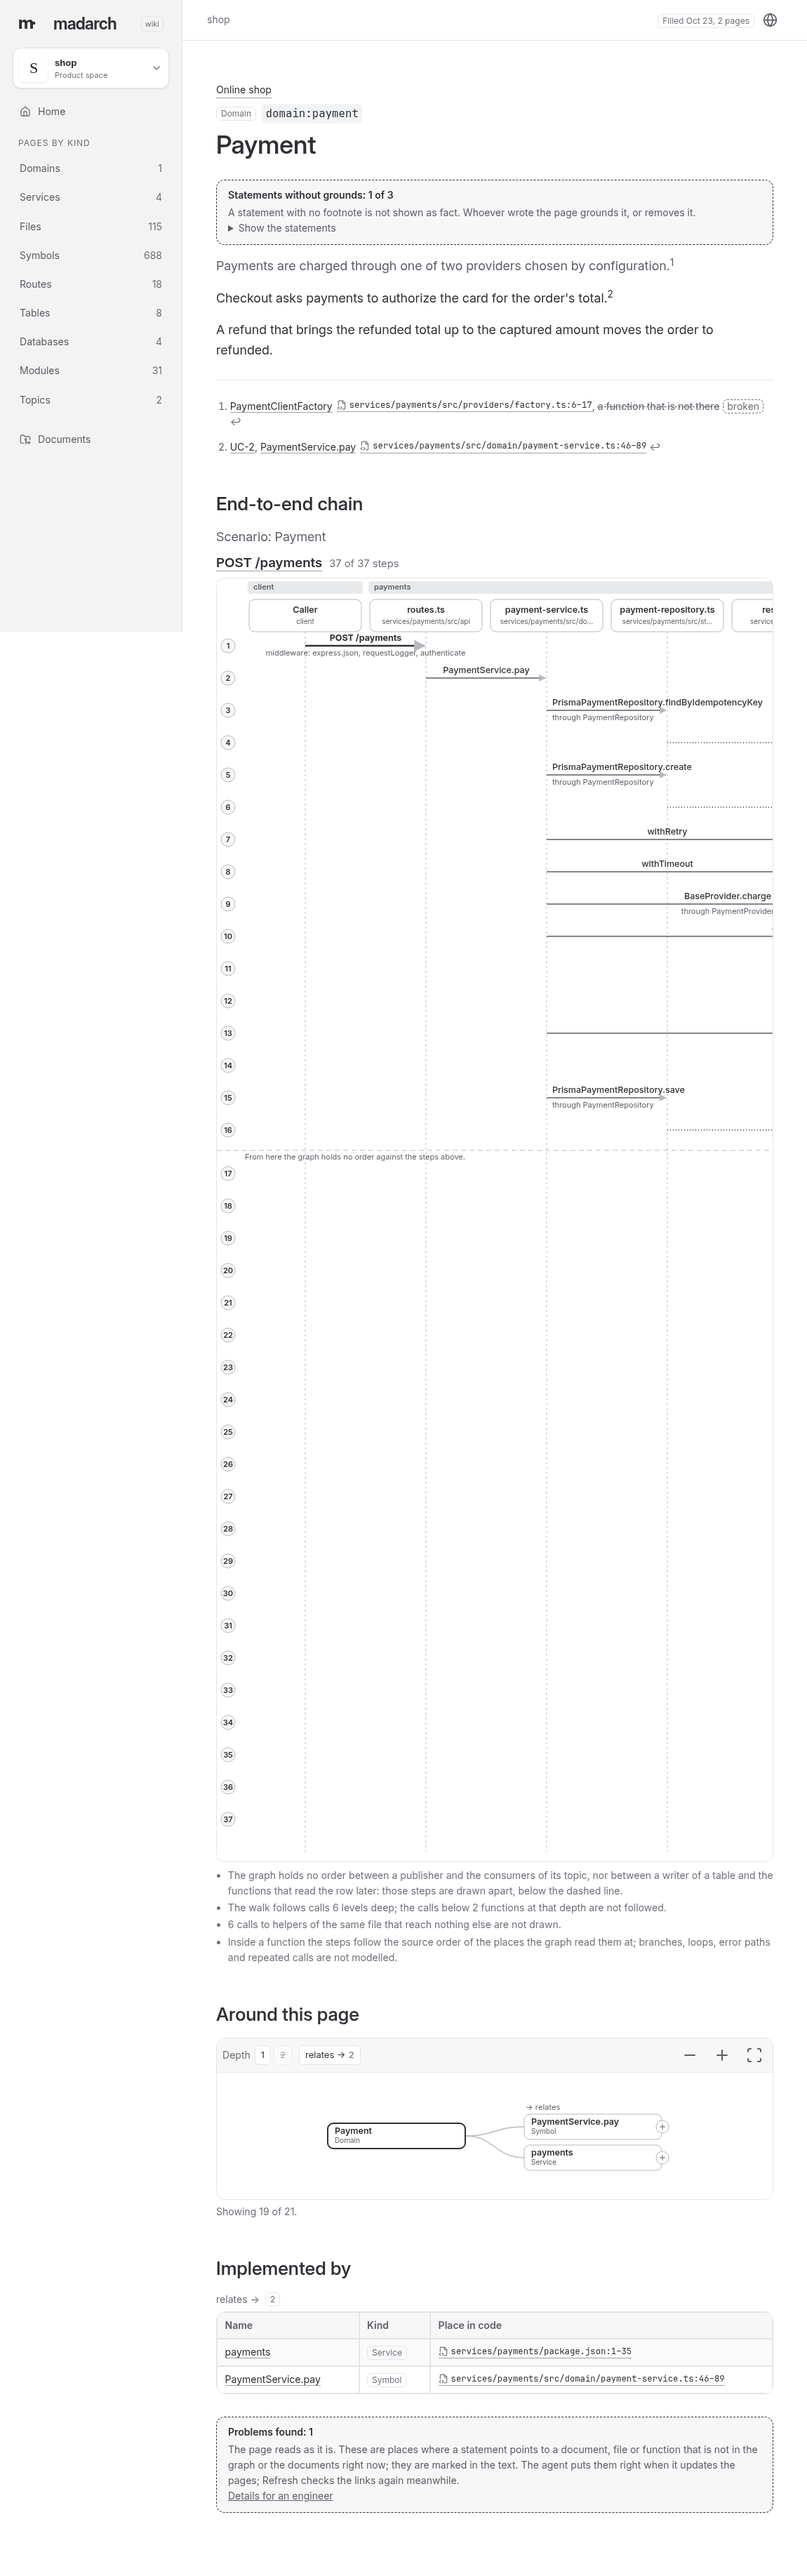
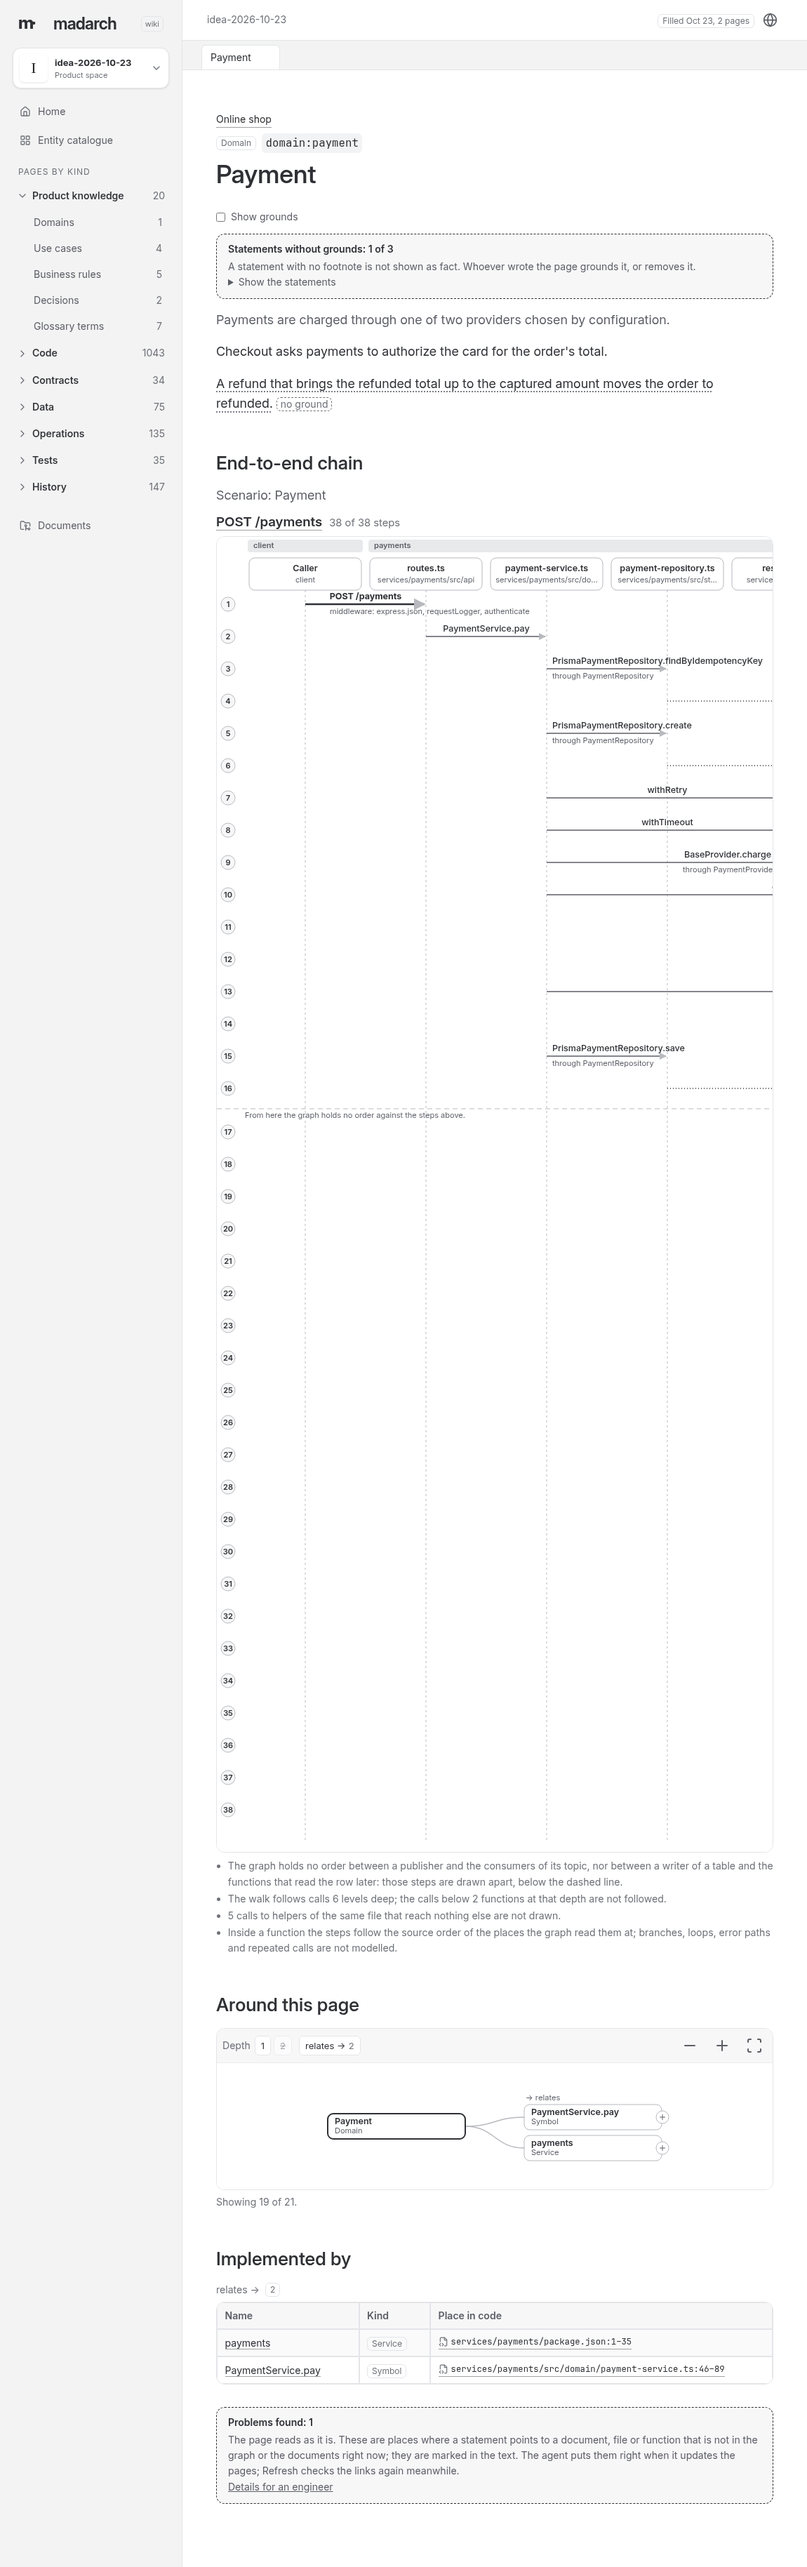
Record the diagrams' design and acceptance evidence
Task: madarch-m38l.9

diff --git a/scripts/diagram-shots.ts b/scripts/diagram-shots.ts
@@ -126,7 +126,12 @@ for (const view of views) {
       console.error(`${entry.name} ${view.tag}: ${entry.wait} never appeared: ${(error as Error).message}`);
     }
     await new Promise((rest) => setTimeout(rest, 800));
-    await page.screenshot({ path: join(out, `${entry.name}-${view.tag}.png`), fullPage: true });
+    // The viewport takes the page's whole height, so the pictures hold what a reader scrolls through and no diagram is
+    // measured again while the capture resizes the window.
+    const height = await page.evaluate(() => Math.max(document.documentElement.scrollHeight, ...[...document.querySelectorAll('main, [data-testid=entity-page]')].map((element) => element.scrollHeight)));
+    await page.setViewport({ width: view.width, height: Math.min(9000, Math.max(900, height)) });
+    await new Promise((rest) => setTimeout(rest, 800));
+    await page.screenshot({ path: join(out, `${entry.name}-${view.tag}.png`) });
     report[`${entry.name}-${view.tag}`] = await measure(page);
     await page.close();
   }

diff --git a/docs/changes/madarch-m38l.9/change.md b/docs/changes/madarch-m38l.9/change.md
@@ -38,10 +38,32 @@ Mockup: docs/prototypes/madarch-m38l.9/domain-payment-1150-light.png
 None.
 
 ## Design and decisions
-Filled with the acceptance evidence.
+Decision 0029 (blocks over the graph, templates arrange them). Choices inside it:
+- **Own SVG, no graph library.** The neighbourhood is a layered drawing whose layers are given (what comes in on the left, what goes out on the right), the system and module views are small layered graphs, the chain is a table of lanes and rows, the treemap a squarified partition. xyflow needs a layout engine beside it (elkjs, 1.4 MB of the 7.7 MB `dist` is already the mermaid ELK chunk) and Cytoscape is 435 kB (also already a mermaid chunk, loaded only for mermaid); neither gives a fixed in/out column layout without a custom layout, and both bring a worker or wasm question for the compiled binary. The layouts are 300 lines of pure functions (`wiki/app/src/knowledge/diagrams/layout.ts`) that the tests check for overlap. Cost: no automatic routing for large graphs; the neighbourhood caps its nodes (48, per-group 8) and says what it left out. The ER diagram stays on the existing Mermaid renderer (static reads best) and gains a link to each table.
+- **What a chain claims.** The graph holds no execution order, but it holds the place (line and byte) of every call, table access, remote call and publication inside the function that makes it. A chain therefore orders steps only by those places inside one function, goes depth first through calls, enters another service through the route or handler that serves the operation (`code.calls-remote` to `code.serves`), and draws what the graph links without an order (consumers of a topic, the readers of a table the chain wrote that go on to publish) under a dashed line that says so. Branches, loops and error paths are not modelled and the diagram says it. A call through an interface drops the interface's step and keeps the implementation's; several functions called at one site are marked as alternatives; same-file helpers that reach nothing are left out and counted.
+- **Where a chain starts.** A route page starts at its route; a function page walks the callers upward until a caller stands inside a route's lines; a Markdown page follows its `relates` to those. A function no route reaches starts at itself and says so.
+- **Derived neighbours.** A route's `handled-by` (what its registration calls at the route's lines) and a service's links (calls over HTTP/gRPC, databases, topics) are computed from spans and the system view's own reads; they appear in the neighbourhood with those relation names.
+- **A click opens the node's page in a new in-wiki tab** (`openInNewTab` of madarch-m38l.6) through `DiagramOpenProvider`/`onOpen`; shift and alt are left to the browser, ctrl and the middle button open a tab as in the wiki's other links. A phone shows the chain as a list of steps (the lanes would scroll sideways under a column of bare numbers); the other diagrams pan.
+- **Read cost.** `relationEdges` bounds its rows with a SQL LIMIT and counts the rest; every view that reads a whole relation says when it read part of it.
 
 ## Acceptance evidence
-Filled when the diagrams are accepted.
+On the SkyPilot pod (`madarch-sky-test --avx2`, 2026-10-23), on the generated training repository, fixtures only:
+- `test/knowledge-diagrams.test.ts` (13 tests, fills the training repository): POST /orders reaches handler `Create`, use case `Place`, domain `NewOrder`, `OrderRepository.Create` and the tables orders, order_items and outbox in the answer key's order (flow.orders.*), and the outbox's reader is an unordered step (outbox.chain); POST /payments reaches `PaymentService.pay`, the payments table, the publication to payments.events and its consumer in orders, unordered (flow.payments.chain, interaction.*); POST /checkout calls promotions, then orders over HTTP and payments over gRPC, each entering the serving route or handler (checkout.sequence); a function page reaches its route, a domain page the routes of its functions; the system view has four services, three databases, the topics and the HTTP, gRPC, SQL and event links; the payments service marks the domain-events cycle (payments.cycle.*); the treemap makes order_service.go the hotspot with churn 28 and leaves lock files out (hotspot). Also test/knowledge-render, knowledge-parse and knowledge-server: 61 pass with them; wiki/app: 105 pass, 0 fail (`bun run check`, `bun test`, `bun run build`).
+- Bundle: the app's `dist` is 7.7 MB; the diagram code is in the main chunk (`index-*.js`, 690 kB, 210 kB gzip) and adds no dependency; Cytoscape and ELK are mermaid's own lazy chunks, as before.
+- Compiled binary: `bun scripts/build-binary.ts` built `madarch-linux-x64` (119 MB, smoke ok), and `bun scripts/diagram-shots.ts --binary` made a product with the binary's own starter set, filled the training repository and drew every diagram through the binary's embedded app: 38 pictures (9 pages at 1150 px and 390 px, light and dark) in `/tmp/claude-1000/-home-dev-repos-madarch/6e4827be-b38f-4d37-915a-ccde034281b8/scratchpad/shots-diagrams/`; two are committed under docs/prototypes/madarch-m38l.9. Every picture was looked at; what was wrong (an unreadable crop of the system view at the right, lock files filling the treemap, the neighbourhood cut at the bottom, a type-reference relation drowning the function's neighbours, the chain on a phone) was fixed and the walk rerun.
+- Label sizes (the font size as rendered, after the diagram's scale) and overlaps between the texts of one diagram, measured by the walk in the browser (`measures.json`):
+- modules at 1150 px, light and dark: smallest label 8.8 px as rendered, 80 texts, summed over 9 pages and both schemes, 0 overlaps
+- modules at 390 px, light and dark: smallest label 8.8 px as rendered, 80 texts, summed over 9 pages and both schemes, 0 overlaps
+- neighborhood at 1150 px, light and dark: smallest label 11 px as rendered, 244 texts, summed over 9 pages and both schemes, 0 overlaps
+- neighborhood at 390 px, light and dark: smallest label 9.9 px as rendered, 244 texts, summed over 9 pages and both schemes, 0 overlaps
+- sequence at 1150 px, light and dark: smallest label 11 px as rendered, 1236 texts, summed over 9 pages and both schemes, 0 overlaps
+- system at 1150 px, light and dark: smallest label 8.8 px as rendered, 54 texts, summed over 9 pages and both schemes, 0 overlaps
+- system at 390 px, light and dark: smallest label 8.8 px as rendered, 54 texts, summed over 9 pages and both schemes, 0 overlaps
+- treemap at 1150 px, light and dark: smallest label 10 px as rendered, 420 texts, summed over 9 pages and both schemes, 0 overlaps
+- treemap at 390 px, light and dark: smallest label 10 px as rendered, 180 texts, summed over 9 pages and both schemes, 0 overlaps
+- Read-only Codex review: nine findings, eight fixed with tests (alternatives at one call site, folded relation limits counted and propagated, the SQL bound, the more chip's paging, an opened node's opposite side, filters taking their edges, stale blocks reset); the ninth (control-click is intercepted) is the wiki's own convention for its links and is kept.
+
+Limits: a route whose handler is shared by several routes loses it after the first registration (the extractor folds the sites of a pair into one edge; the occurrence records would answer it); the 8.8 px smallest label of the system and module views is the kind line at the view's smallest scale (0.8), and the wider views start at their left edge and are panned; chain consumers are limited to 40 unordered entries; mutation testing is not run (one run per assembled stage).
 
 ## DONE WHEN
 On the training repository: every service, domain, function, table and route page shows its neighbourhood diagram; the four use cases each have an end-to-end chain matching the answer key's flow items (the order of steps shown only where the graph knows it); the home page shows the system view; each diagram is accepted by screenshots at 1150 px and phone width with label sizes and overlaps recorded.
